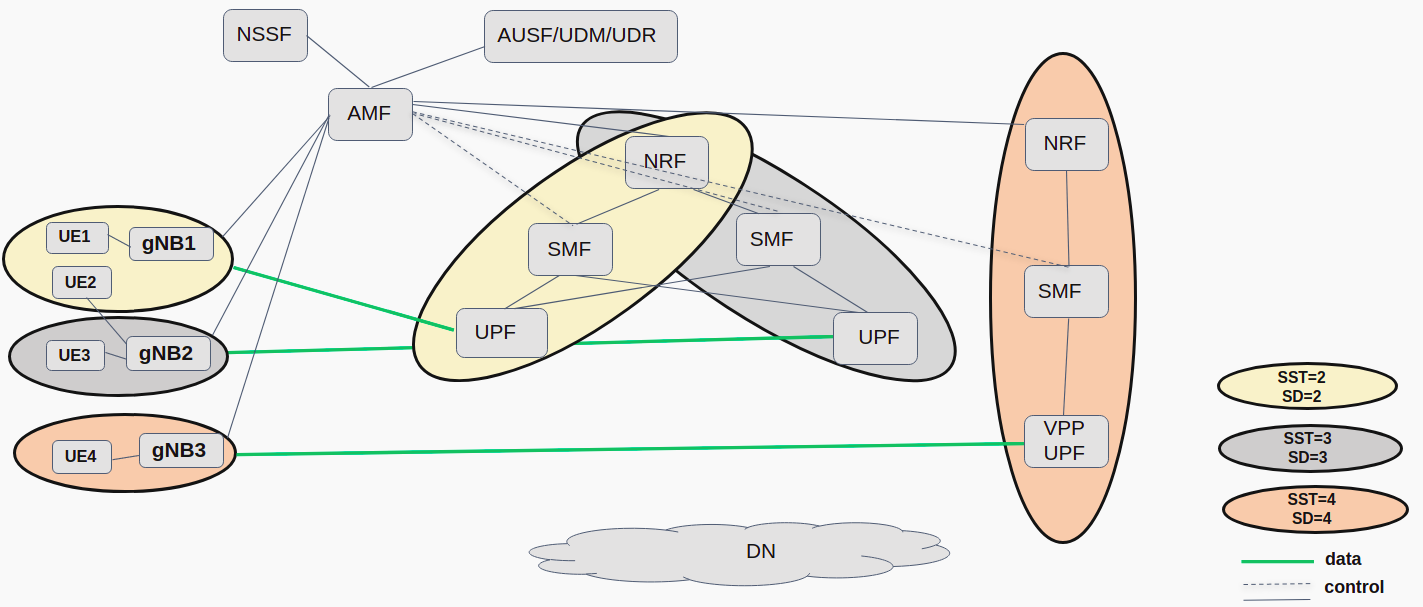
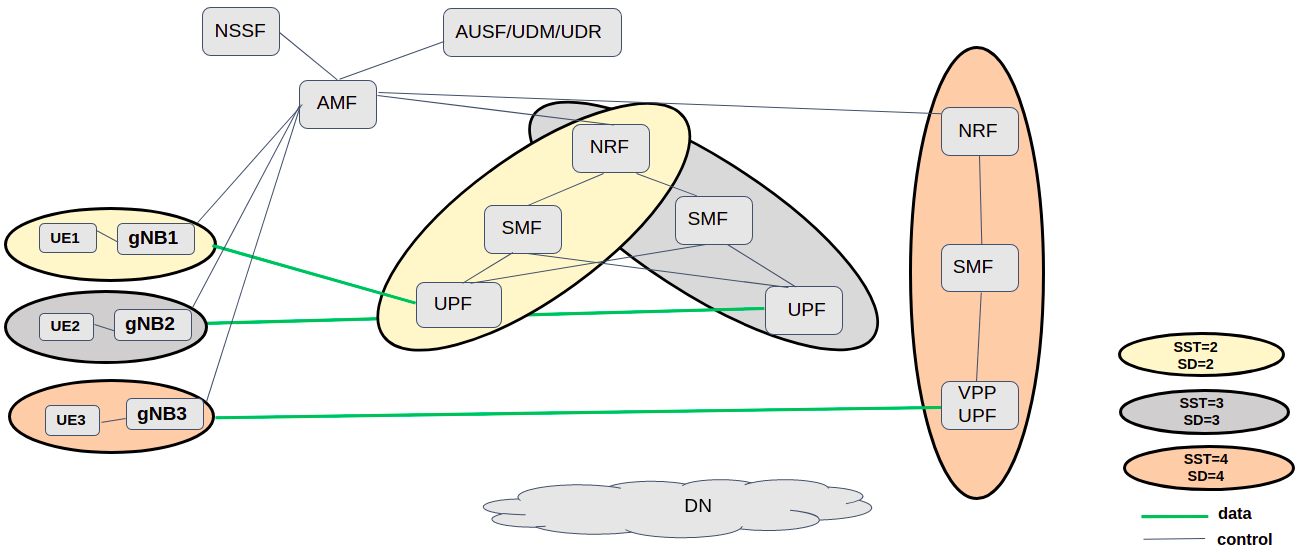
Tutorial page updated

diff --git a/docs/DEPLOY_SA5G_SLICING.md b/docs/DEPLOY_SA5G_SLICING.md
@@ -67,11 +67,12 @@ A Network Slice is defined within a PLMN and it incorporates the 5G Core and 5G 
 * Role od SMF  -> SMF can associates with multiple UPFs at same time as in slice 2 and 3 from above figure. UPF is selected here based on S-NSSAI and DNN.
 
 As shown in figure above, there are 3 S-NSSAIs configured (Can be differentiated with colors) viz. <br/>
-###### Slice1: [SST=2,SD=2] =>   NRF1, SMF1, UPF1, GNB1, UE1, UE2
-###### Slice2: [SST=3,SD=3] =>   NRF1, SMF2, UPF2, GNB2, UE3
-###### Slice3: [SST=4,SD=4] =>   NRF2, SMF3, VPP-UPF3, GNB3, UE4
+Note:- Here we have used standardised SST values (2,3,4), because rf-simulator only supports SST values 1,2,3,4. Moreover, it only for numerical refernece and does not reflect standrd SST behaviour e.g. URLCC, MIoT, V2X etc.<br/>
+###### Slice1: [SST=2,SD=2] =>   NRF1, SMF1, UPF1, GNB1, UE1
+###### Slice2: [SST=3,SD=3] =>   NRF1, SMF2, UPF2, GNB2, UE2
+###### Slice3: [SST=4,SD=4] =>   NRF2, SMF3, VPP-UPF3, GNB3, UE3
 
-Here AMF, NSSF, UDM, UDR, AUSF are common to all slices. SMF and UPF in S-NSSAI 2 and 3 have same NRF hence both UPFs are discoverable to both SMF. You can verify in the logs that both SMFs are successfullt associated to both UPFs in S-NSSAI 2 and 3. Here number of SMFs/UPFs for registered under single NRF is part of operator network planning.<br/>
+Here AMF, NSSF, UDM, UDR, AUSF are common to all slices. SMF and UPF in S-NSSAI 2 and 3 have same NRF hence both UPFs are discoverable to both SMF. You can verify in the logs that both SMFs are successfullt associated to both UPFs in S-NSSAI 2 and 3. Here number of SMFs/UPFs for registered under single (NSI) NRF is part of operator's network planning.<br/>
 
 
 ###### Let's begin !!
@@ -127,7 +128,9 @@ bf6544a04f1f   oai-nssf:develop         "/bin/bash /openair-…"   51 seconds ag
 
 ## 6. Getting a `ransim` docker images ##
 
-We are using 3 different ran simulators viz. [ueransim](https://github.com/aligungr/UERANSIM), [rfsimulator](https://gitlab.eurecom.fr/oai/openairinterface5g/-/tree/develop/ci-scripts/yaml_files/5g_rfsimulator) and [gnbsim](https://gitlab.eurecom.fr/kharade/gnbsim) for slice 2, 3 and 4 repectively. Each of them has there set of features, and one can use as per need basis (For the moment, rfsimulator is validated with multiplr UEs for this tutorial). You can pull docker images from official repositories as below -
+We are using 3 different ran simulators viz. [ueransim](https://github.com/aligungr/UERANSIM), [rfsimulator](https://gitlab.eurecom.fr/oai/openairinterface5g/-/tree/develop/ci-scripts/yaml_files/5g_rfsimulator) and [gnbsim](https://gitlab.eurecom.fr/kharade/gnbsim) for slice 2, 3 and 4 repectively. Each of them has there set of features, and one can use as per need basis. Different ransimulator usage mimics here, the realistic deployemnt scenario where operator can have multi vendor devices deployed  in the network. <br/>
+
+You can pull docker images from official repositories as below -
 
 ```bash
 $ docker pull rohankharade/gnbsim:latest
@@ -144,10 +147,11 @@ $ docker image tag rdefosseoai/oai-nr-ue:develop oai-nr-ue:develop
 ```
 
 ## 7. Executing `ransim` Scenario ##
-We run first, ueransim, gnbsim, rfsimulator gnb and rfsim5g-oai-nr-ue1 first. Here we deploy rfsim5g-oai-nr-ue2 later as we need to make sure rfsimulator gnb/ue is connected to AMF successfully (As rfsimulator simulates complete protocol stack and radio interface, it is bit resource intensive).
+
+We deploy ran simulators with the help of docker-compose as below -
 
 ```bash
-oai-cn5g-fed/docker-compose$ docker-compose -f docker-compose-slicing-ransim.yaml up -d gnbsim ueransim oai-gnb oai-nr-ue1
+oai-cn5g-fed/docker-compose$ docker-compose -f docker-compose-slicing-ransim.yaml up -d
 Creating gnbsim             ... done
 Creating ueransim           ... done
 Creating rfsim5g-oai-gnb    ... done
@@ -163,17 +167,7 @@ rfsim5g-oai-gnb      /opt/oai-gnb/bin/entrypoin ...   Up (healthy)
 rfsim5g-oai-nr-ue1   /opt/oai-nr-ue/bin/entrypo ...   Up (healthy)        
 ueransim             /ueransim/bin/entrypoint.sh      Up (healthy)  
 ```
-Similarly, run rfsimulator ue2 and make sure all services are healthy.
-```bash
-oai-cn5g-fed/docker-compose$ docker-compose -f docker-compose-slicing-ransim.yaml ps -a
-       Name                     Command                  State       Ports
---------------------------------------------------------------------------
-gnbsim               /gnbsim/bin/entrypoint.sh  ...   Up (healthy)        
-rfsim5g-oai-gnb      /opt/oai-gnb/bin/entrypoin ...   Up (healthy)        
-rfsim5g-oai-nr-ue1   /opt/oai-nr-ue/bin/entrypo ...   Up (healthy)        
-rfsim5g-oai-nr-ue2   /opt/oai-nr-ue/bin/entrypo ...   Up (healthy)        
-ueransim             /ueransim/bin/entrypoint.sh      Up (healthy)        
-```
+
 After successful deployment we can verify at AMF that all gnbs and ues are successfully registered to network.
 ```bash
 [2021-12-13T20:47:20.265472] [AMF] [amf_app] [info ] |----------------------------------------------------------------------------------------------------------------|
@@ -190,9 +184,6 @@ After successful deployment we can verify at AMF that all gnbs and ues are succe
 [2021-12-13T20:47:20.265951] [AMF] [amf_app] [info ] |      1|       5GMM-REGISTERED|   208950000000035|               |               1|          2| 208, 95 |    256|
 [2021-12-13T20:47:20.265967] [AMF] [amf_app] [info ] |      2|       5GMM-REGISTERED|   208950000000036|               |     -1441334349|          3| 208, 95 |14680064|
 [2021-12-13T20:47:20.265976] [AMF] [amf_app] [info ] |      3|       5GMM-REGISTERED|   208950000000037|               |      -372062044|          4| 208, 95 |14680064|
-[2021-12-13T20:47:20.265983] [AMF] [amf_app] [info ] |      4|       5GMM-REGISTERED|   208950000000038|               |               0|          1| 208, 95 |1310736|
-[2021-12-13T20:47:20.265989] [AMF] [amf_app] [info ] |----------------------------------------------------------------------------------------------------------------|
-[2021-12-13T20:47:20.265994] [AMF] [amf_app] [info ] 
 
 ```
 
@@ -201,34 +192,26 @@ After successful deployment we can verify at AMF that all gnbs and ues are succe
 In this section we perform traffic test between oai-ext-dn node and Ues <br/>
 
 ```bash
-$ docker exec oai-ext-dn ping -c 2 12.1.1.3
-PING 12.1.1.3 (12.1.1.3) 56(84) bytes of data.
-64 bytes from 12.1.1.3: icmp_seq=1 ttl=63 time=2.82 ms
-64 bytes from 12.1.1.3: icmp_seq=2 ttl=63 time=0.836 ms
---- 12.1.1.3 ping statistics ---
+$ docker exec oai-ext-dn ping -c 2 12.1.1.2
+PING 12.1.1.2 (12.1.1.2) 56(84) bytes of data.
+64 bytes from 12.1.1.2: icmp_seq=3 ttl=63 time=0.547 ms
+64 bytes from 12.1.1.2: icmp_seq=4 ttl=63 time=0.460 ms
+--- 12.1.1.2 ping statistics ---
 2 packets transmitted, 2 received, 0% packet loss, time 1001ms
 rtt min/avg/max/mdev = 0.836/1.832/2.828/0.996 ms
 
-$ docker exec oai-ext-dn ping -c 2 12.2.1.1
-PING 12.2.1.1 (12.2.1.1) 56(84) bytes of data.
-64 bytes from 12.2.1.1: icmp_seq=1 ttl=63 time=3.77 ms
-64 bytes from 12.2.1.1: icmp_seq=2 ttl=63 time=2.77 ms
---- 12.2.1.1 ping statistics ---
+$ docker exec oai-ext-dn ping -c 2 docker exec oai-ext-dn ping 12.2.1.2
+PING 12.2.1.2 (12.2.1.2) 56(84) bytes of data.
+64 bytes from 12.2.1.2: icmp_seq=2 ttl=63 time=0.793 ms
+64 bytes from 12.2.1.2: icmp_seq=3 ttl=63 time=0.769 ms
+--- 12.2.1.2 ping statistics ---
 2 packets transmitted, 2 received, 0% packet loss, time 1001ms
 rtt min/avg/max/mdev = 2.772/3.274/3.776/0.502 ms
 
-$ docker exec oai-ext-dn ping -c 2 12.1.1.2
-PING 12.1.1.2 (12.1.1.2) 56(84) bytes of data.
-64 bytes from 12.1.1.2: icmp_seq=1 ttl=63 time=119 ms
-64 bytes from 12.1.1.2: icmp_seq=2 ttl=63 time=243 ms
---- 12.1.1.2 ping statistics ---
-2 packets transmitted, 2 received, 0% packet loss, time 1000ms
-rtt min/avg/max/mdev = 119.374/181.621/243.869/62.248 ms
-
 $ docker exec oai-ext-dn ping -c 2 12.1.1.129
 PING 12.1.1.129 (12.1.1.129) 56(84) bytes of data.
-64 bytes from 12.1.1.129: icmp_seq=1 ttl=63 time=122 ms
-64 bytes from 12.1.1.129: icmp_seq=2 ttl=63 time=154 ms
+64 bytes from 12.1.1.129: icmp_seq=1 ttl=63 time=39.1 ms
+64 bytes from 12.1.1.129: icmp_seq=2 ttl=63 time=24.5 ms
 --- 12.1.1.129 ping statistics ---
 2 packets transmitted, 2 received, 0% packet loss, time 1000ms
 rtt min/avg/max/mdev = 122.181/138.131/154.082/15.954 ms
@@ -262,10 +245,9 @@ $
 | rfsim UE1             | 192.168.70.154 |
 | rfsim UE2             | 192.168.70.155 |
 | gnbsim gNB            | 192.168.70.156 |
-| UE1                   | 12.1.1.2       |
-| UE2                   | 12.1.1.3       |
-| UE3                   | 12.1.1.129     |
-| UE4                   | 12.2.1.1       |
+| UE1                   | 12.2.1.2       |
+| UE2                   | 12.1.1.129     |
+| UE3                   | 12.1.1.2       |
 
 | Pcap/log files                                                                             |
 |:------------------------------------------------------------------------------------------ |
@@ -283,12 +265,10 @@ Undeploy RAN
 ```bash
 $ docker-compose -f docker-compose-slicing-ransim.yaml down
 Stopping ueransim           ... done
-Stopping rfsim5g-oai-nr-ue2 ... done
 Stopping rfsim5g-oai-nr-ue1 ... done
 Stopping rfsim5g-oai-gnb    ... done
 Removing ueransim           ... done
 Removing gnbsim             ... done
-Removing rfsim5g-oai-nr-ue2 ... done
 Removing rfsim5g-oai-nr-ue1 ... done
 Removing rfsim5g-oai-gnb    ... done
 Network demo-oai-public-net is external, skipping

diff --git a/docs/DEPLOY_HOME.md b/docs/DEPLOY_HOME.md
@@ -20,10 +20,11 @@ Welcome to the tutorial home page of OAI 5g Core project. Here you can find lot 
     - [Using Docker-Compose, perform a `basic` deployment](./DEPLOY_SA5G_BASIC_DS_TESTER_DEPLOYMENT.md)
     - [Using Docker-Compose, perform a `basic` deployment with FQDN feature](./DEPLOY_SA5G_BASIC_FQDN_DEPLOYMENT.md)
     - [Using Docker-Compose, perform a `basic-vpp` deployment with VPP-implementation of UPF](./DEPLOY_SA5G_WITH_VPP_UPF.md)
-    - [Using Helm Chart](./DEPLOY_SA5G_HC.md)
+    - [Using Helm Chart, perform a `basic` deployment](./DEPLOY_SA5G_HC.md)
     - [Using Virtual Machine, deploy and test with a Commercial UE](./DEPLOY_SA5G_VM_COTSUE.md)
     - [Using Docker-Compose, perform a `minimalist` deployment and test with `gnbsim`](./DEPLOY_SA5G_WITH_GNBSIM.md)
-    - [Using Docker-Compose, perform a `basic` deployment and test with OAI RF simulator](https://gitlab.eurecom.fr/oai/openairinterface5g/-/tree/develop/ci-scripts/yaml_files/5g_rfsimulator)
+    - [Using Docker-Compose, perform a `basic` deployment and test with `OAI RF simulator`](https://gitlab.eurecom.fr/oai/openairinterface5g/-/tree/develop/ci-scripts/yaml_files/5g_rfsimulator)
     - [Using Docker-Compose, perform a `basic` deployment and test with `UERANSIM`](./DEPLOY_SA5G_WITH_UERANSIM.md)
+    - [Using Docker-Compose, perform a `basic` deployment and test with `Network Slicing`](./DEPLOY_SA5G_SLICING.md)
 - The Developer Corner
     - [How to Deploy Developers Core Network and Basic Debugging](./DEBUG_5G_CORE.md)
